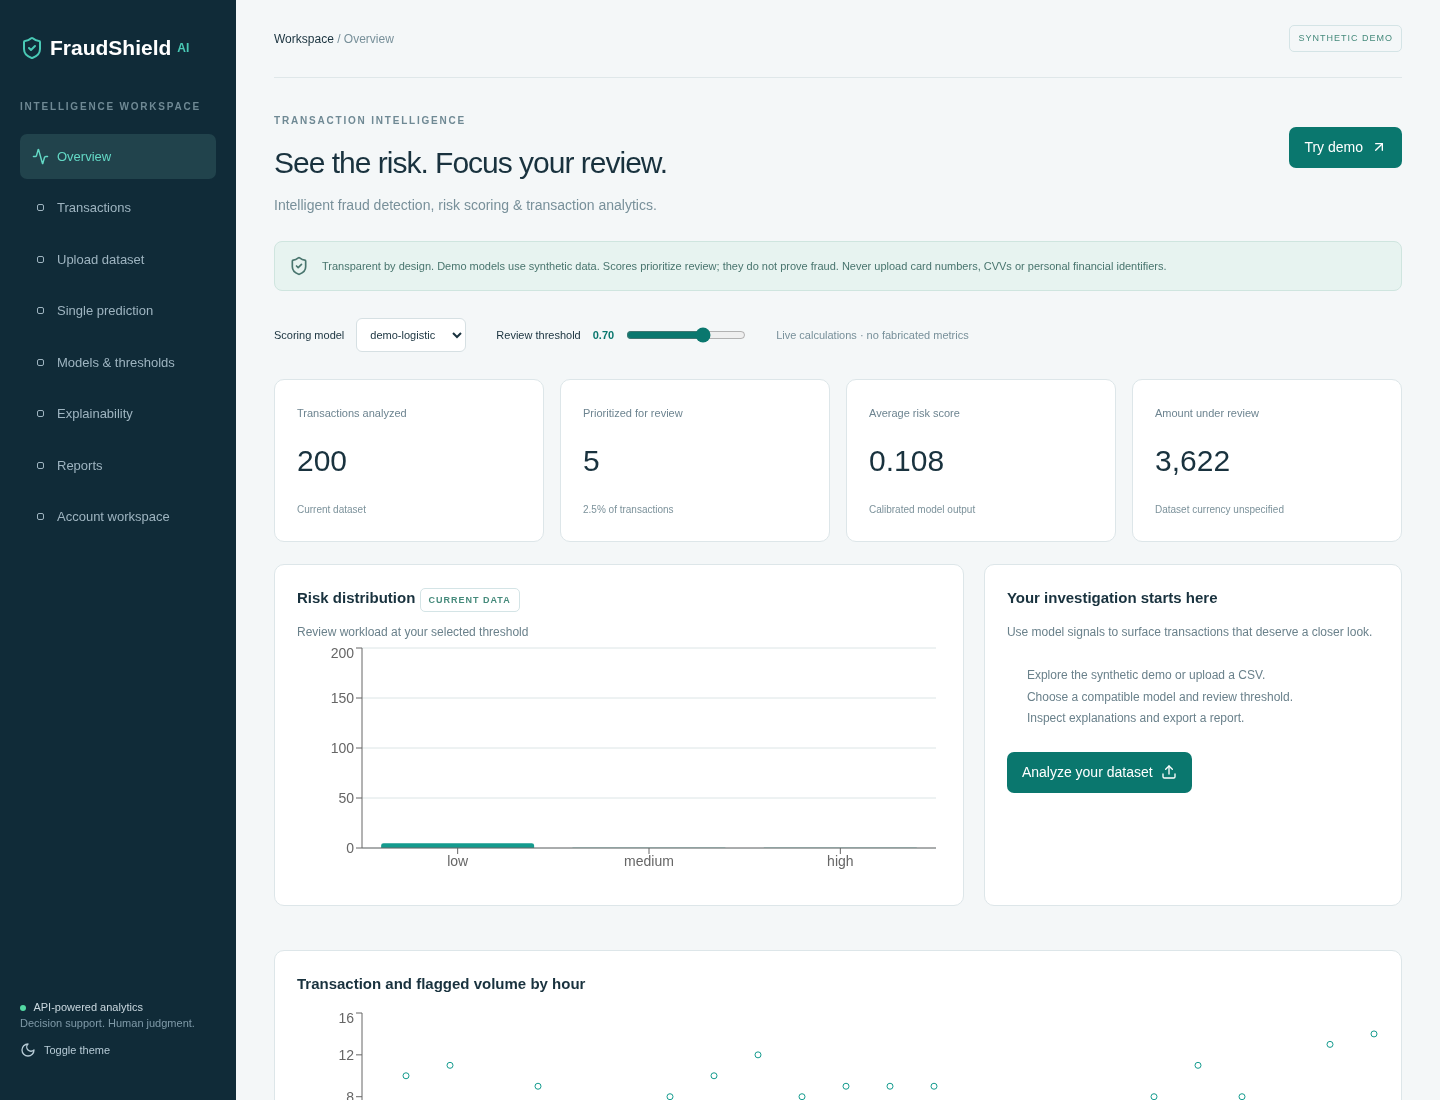
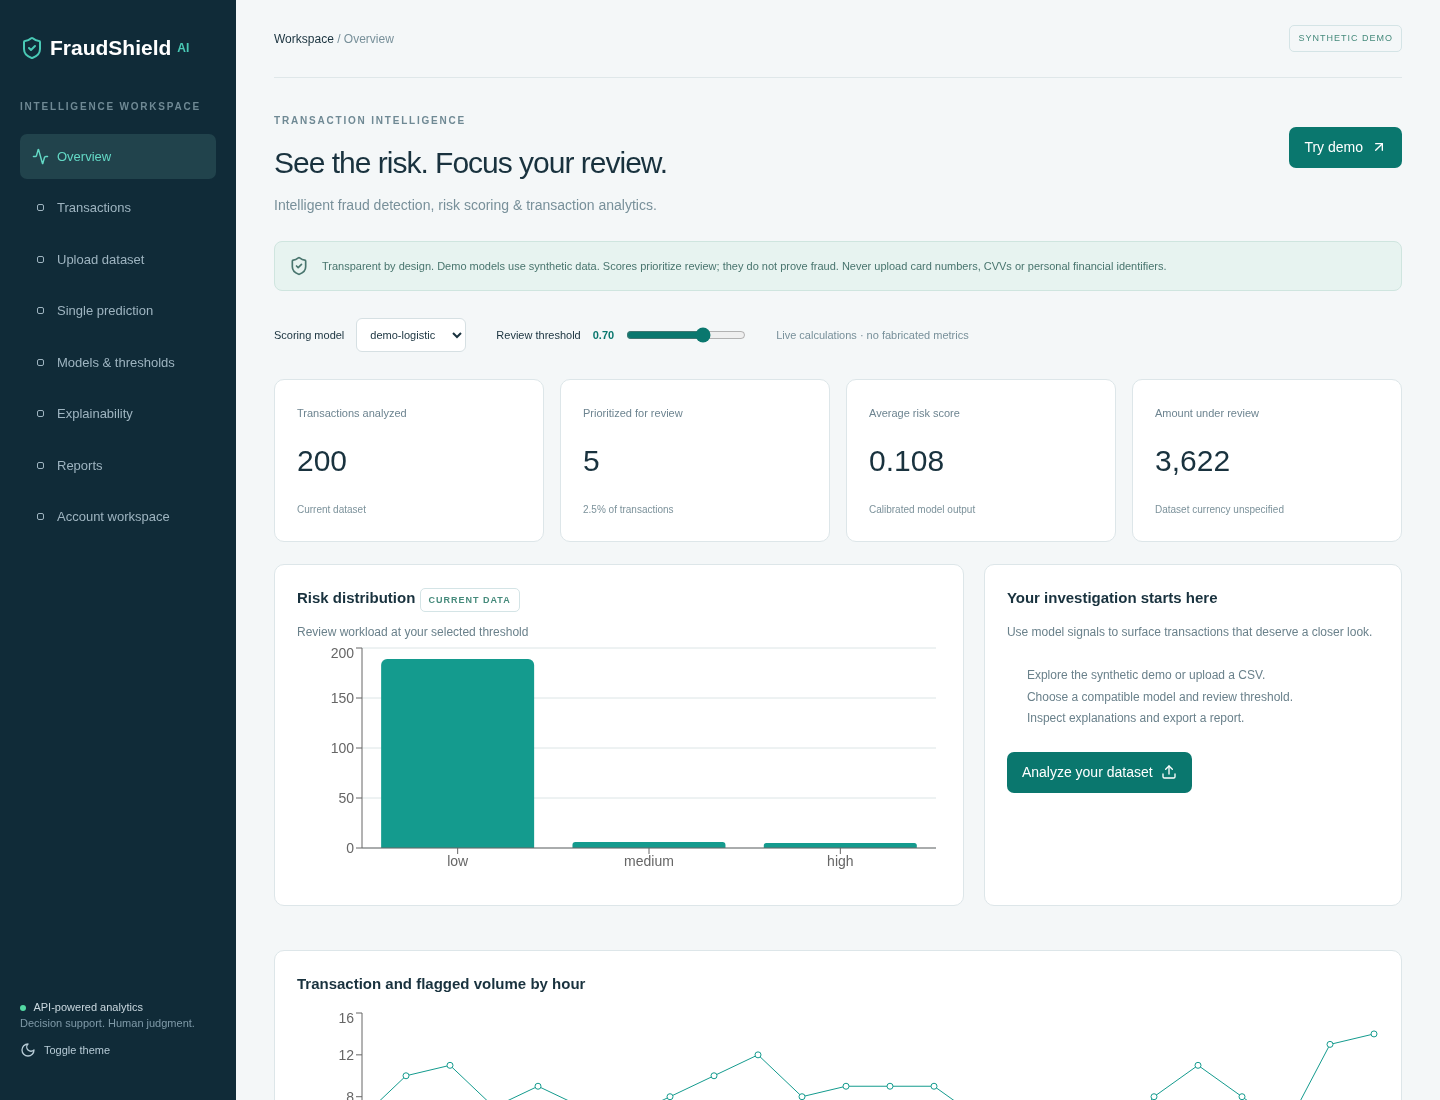
docs: capture dashboard after chart animations settle

Changed region(s): [[0.25, 0.5873, 0.375, 0.7727], [0.5312, 0.7418, 0.625, 0.7727], [0.4062, 0.7418, 0.5, 0.7727]]

diff --git a/scripts/workspace_e2e.py b/scripts/workspace_e2e.py
@@ -60,6 +60,7 @@ with sync_playwright() as p:
     page.get_by_role("button",name="Open",exact=True).first.click()
     page.get_by_text("See the risk. Focus your review.",exact=True).wait_for()
     page.get_by_text("200",exact=True).first.wait_for()
+    page.wait_for_timeout(1800)  # allow the 1500ms Recharts entrance animation to settle
     page.screenshot(path="docs/dashboard.png",full_page=False)
     page.get_by_role("button",name="Account workspace",exact=True).click()
     page.get_by_text("Delete account and all saved data",exact=True).click()

diff --git a/scripts/browser_smoke.py b/scripts/browser_smoke.py
@@ -21,6 +21,7 @@ with sync_playwright() as p:
     assert page.locator(".contribution").count()==4
     page.get_by_role("button",name="Overview",exact=True).click()
     Path("docs").mkdir(exist_ok=True)
+    page.wait_for_timeout(1800)  # allow the 1500ms Recharts entrance animation to settle
     page.screenshot(path="docs/dashboard.png",full_page=False)
     page.set_viewport_size({"width":390,"height":844})
     assert page.locator("main").bounding_box()["width"]<=390
